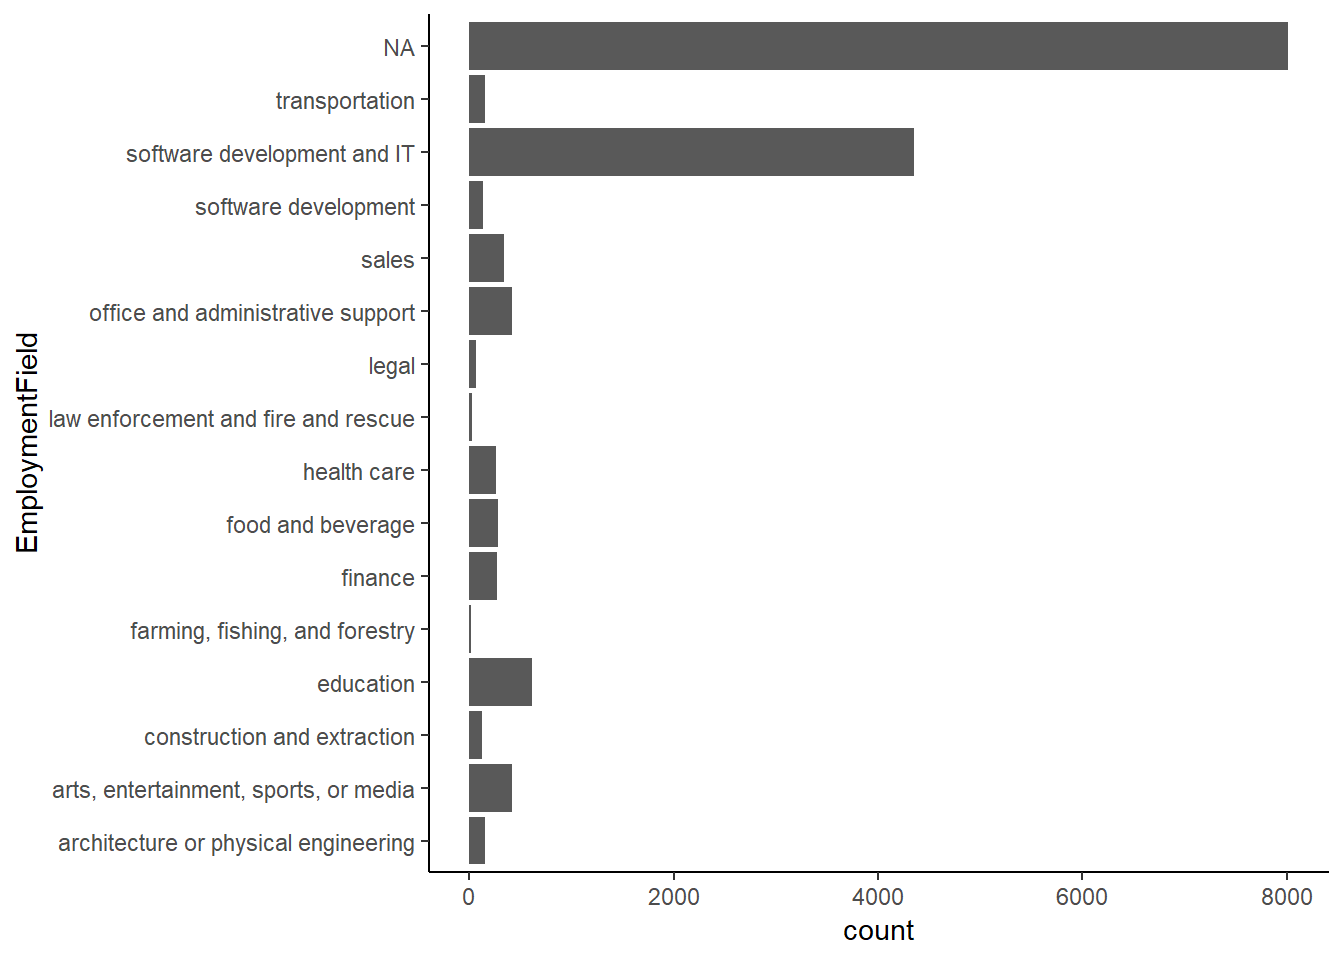
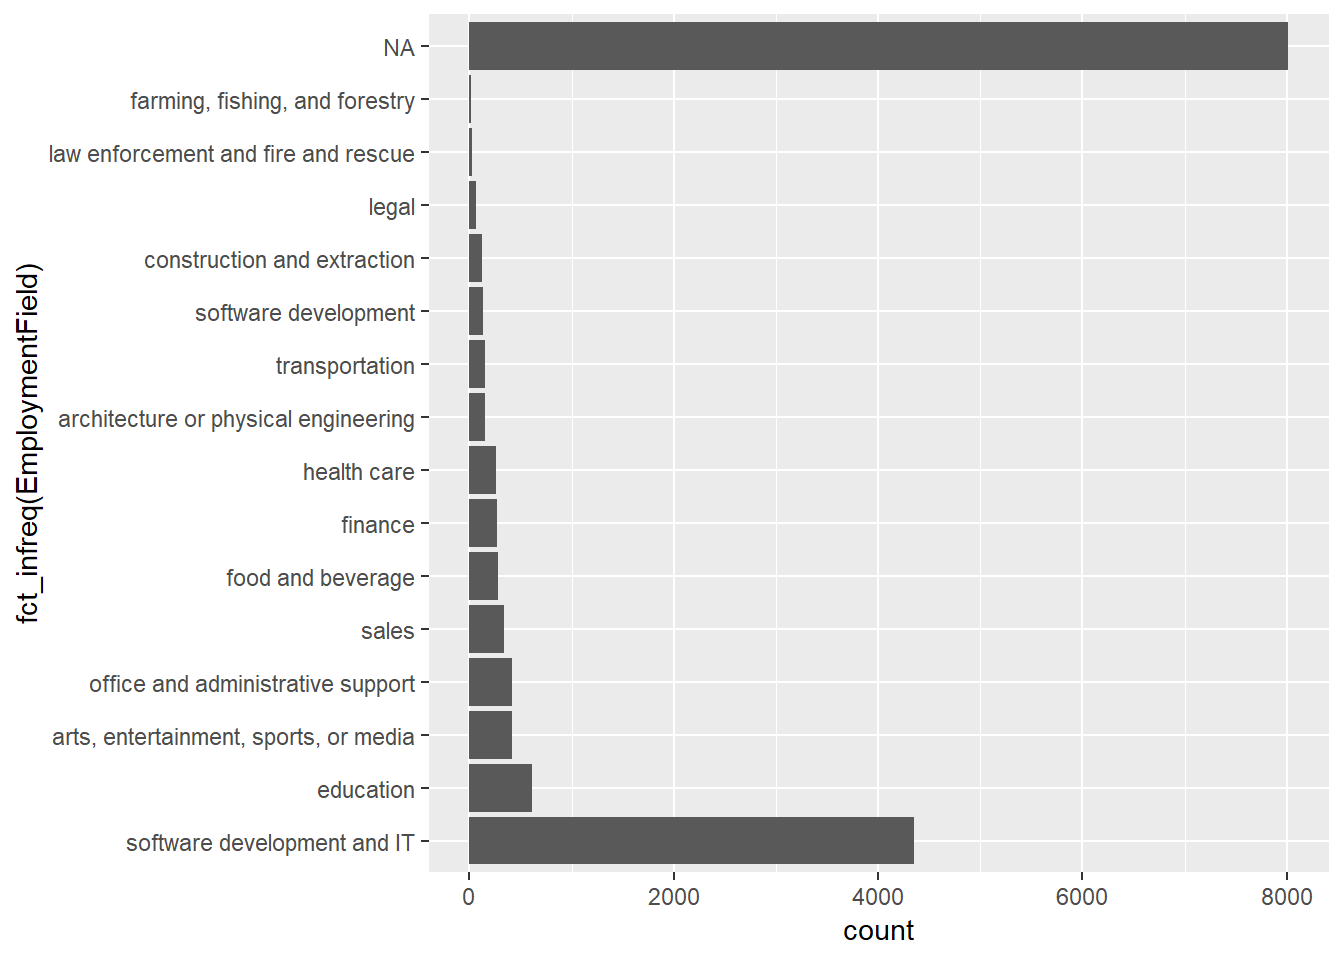
reformatting of tutorial

diff --git a/merl.tech.html b/merl.tech.html
@@ -9,6 +9,7 @@
 <meta name="generator" content="pandoc" />
 
 
+<meta name="author" content="Charles Guedenet" />
 
 
 <title>MERL Tech DC workshop: Up your Data Game with R</title>
@@ -19,6 +20,9 @@
 <script src="site_libs/bootstrap-3.3.5/js/bootstrap.min.js"></script>
 <script src="site_libs/bootstrap-3.3.5/shim/html5shiv.min.js"></script>
 <script src="site_libs/bootstrap-3.3.5/shim/respond.min.js"></script>
+<script src="site_libs/jqueryui-1.11.4/jquery-ui.min.js"></script>
+<link href="site_libs/tocify-1.9.1/jquery.tocify.css" rel="stylesheet" />
+<script src="site_libs/tocify-1.9.1/jquery.tocify.js"></script>
 <script src="site_libs/navigation-1.1/tabsets.js"></script>
 <link href="site_libs/highlightjs-9.12.0/default.css" rel="stylesheet" />
 <script src="site_libs/highlightjs-9.12.0/highlight.js"></script>
@@ -262,6 +266,92 @@ $(document).ready(function () {
 
 
 
+<script>
+$(document).ready(function ()  {
+
+    // move toc-ignore selectors from section div to header
+    $('div.section.toc-ignore')
+        .removeClass('toc-ignore')
+        .children('h1,h2,h3,h4,h5').addClass('toc-ignore');
+
+    // establish options
+    var options = {
+      selectors: "h1,h2",
+      theme: "bootstrap3",
+      context: '.toc-content',
+      hashGenerator: function (text) {
+        return text.replace(/[.\\/?&!#<>]/g, '').replace(/\s/g, '_').toLowerCase();
+      },
+      ignoreSelector: ".toc-ignore",
+      scrollTo: 0
+    };
+    options.showAndHide = true;
+    options.smoothScroll = true;
+
+    // tocify
+    var toc = $("#TOC").tocify(options).data("toc-tocify");
+});
+</script>
+
+<style type="text/css">
+
+#TOC {
+  margin: 25px 0px 20px 0px;
+}
+@media (max-width: 768px) {
+#TOC {
+  position: relative;
+  width: 100%;
+}
+}
+
+
+.toc-content {
+  padding-left: 30px;
+  padding-right: 40px;
+}
+
+div.main-container {
+  max-width: 1200px;
+}
+
+div.tocify {
+  width: 20%;
+  max-width: 260px;
+  max-height: 85%;
+}
+
+@media (min-width: 768px) and (max-width: 991px) {
+  div.tocify {
+    width: 25%;
+  }
+}
+
+@media (max-width: 767px) {
+  div.tocify {
+    width: 100%;
+    max-width: none;
+  }
+}
+
+.tocify ul, .tocify li {
+  line-height: 20px;
+}
+
+.tocify-subheader .tocify-item {
+  font-size: 0.90em;
+  padding-left: 25px;
+  text-indent: 0;
+}
+
+.tocify .list-group-item {
+  border-radius: 0px;
+}
+
+
+</style>
+
+
 
 </head>
 
@@ -269,6 +359,16 @@ $(document).ready(function () {
 
 
 <div class="container-fluid main-container">
+
+
+<!-- setup 3col/9col grid for toc_float and main content  -->
+<div class="row-fluid">
+<div class="col-xs-12 col-sm-4 col-md-3">
+<div id="TOC" class="tocify">
+</div>
+</div>
+
+<div class="toc-content col-xs-12 col-sm-8 col-md-9">
 
 
 
@@ -281,7 +381,7 @@ $(document).ready(function () {
         <span class="icon-bar"></span>
         <span class="icon-bar"></span>
       </button>
-      <a class="navbar-brand" href="index.html">Charles Guedenet Website</a>
+      <a class="navbar-brand" href="index.html">Charles Guedenet</a>
     </div>
     <div id="navbar" class="navbar-collapse collapse">
       <ul class="nav navbar-nav">
@@ -290,6 +390,9 @@ $(document).ready(function () {
 </li>
 <li>
   <a href="projects.html">Projects and tutorials</a>
+</li>
+<li>
+  <a href="MERL.tech.html"></a>
 </li>
       </ul>
       <ul class="nav navbar-nav navbar-right">
@@ -321,40 +424,33 @@ $(document).ready(function () {
 
 
 <h1 class="title toc-ignore">MERL Tech DC workshop: Up your Data Game with R</h1>
+<h4 class="author">Charles Guedenet</h4>
 
 </div>
 
 
+<p>This tutorial was developed for a workshop at MERL Tech DC in 2018 and presented with Jonathan Seiden. You can find the R code and slides on <a href="https://github.com/cguedenet/MERL-Tech-workshop.git">Github</a>.</p>
+<p>The code and examples below are an introduction to the possibilities of using the free and open-source R programming language and software environment for data processing, analysis, and visualization.</p>
+<div id="introduction" class="section level1">
+<h1><span class="header-section-number">1</span> Introduction</h1>
 <p>This is an <a href="http://rmarkdown.rstudio.com">R Markdown</a> Notebook. When you execute code within the notebook, the results appear beneath the code.</p>
 <p>R Studio is an “Integrated Development Environment”, or IDE. This means it is a front-end for R that makes it much easier to work with. R Studio is also free, and available for Windows, Mac, and Linux platforms.</p>
-<pre class="r"><code># This is where you execute R ccommands. R interprets what you write and prints the results
-1 + 1
-
-# A basic concept in programming is called a variable. A variable allows you to store a value (e.g. 5) or an object (e.g. a function) in R for easy access later. 
-## TIP: use &quot;Alt&quot; + &quot;-&quot; instead of &quot;&lt;&quot; + &quot;-&quot;
-
-#creating variables for later use. Use the less sign followed by a dash to create a variable
-
-width &lt;- 5                       # assigns the value 5 to the variable &quot;width&quot;
-length &lt;- 8                      # assigns the value 8 to the variable &quot;width&quot;
-area &lt;- width * length           # multiple the values of both previous variables to create a new variable: &quot;area&quot; 
-
-area  # print the result</code></pre>
+</div>
 <div id="cleaning-your-data" class="section level1">
-<h1>Cleaning your data</h1>
+<h1><span class="header-section-number">2</span> Cleaning your data</h1>
 <p>Analyzing survey data typically starts with cleaning, recoding, and restructuring, or even joining data sets. For example, you may want to know how many missing cases there are or how many people responded to each question. Or you may want to group certain continuous variables like ages or income into ranges. Lastly, you may want to find and deal with outliers.</p>
-<p>Functions like distinct() cab quickly get rid of duplicate rows across all variables or for specific variables (e.g. a person’s ID or email address)</p>
+<p>Functions like distinct() can quickly get rid of duplicate rows across all variables or for specific variables (e.g. a person’s ID or email address)</p>
 <p>Functions like mutate() can help create new variables. For example, creating a new variable for age ranges based on an existing variable for age.</p>
 </div>
 <div id="overview-of-survey-data-and-basic-analysis" class="section level1">
-<h1>Overview of survey data and basic analysis</h1>
+<h1><span class="header-section-number">3</span> Overview of survey data and basic analysis</h1>
 <p>When you’re analyzing survey data, one of the first things you need to do is get an overview of your data. For example, you may want to know basic stats for continuous variables or frequency tables for other types of data.</p>
-<div id="get-summary-stats-for-age-and-agecut-variables" class="section level2">
-<h2>Get summary stats for Age and AgeCut variables</h2>
-<p>Min. 1st Qu. Median Mean 3rd Qu. Max. NA’s 10.00 23.00 27.00 29.18 33.00 86.00 2007 (10,29] (29,34] (34,50] (50,65] (65,100] NA’s 8240 2380 2564 400 27 2009</p>
+<div id="get-summary-stats" class="section level2">
+<h2><span class="header-section-number">3.1</span> Get summary stats</h2>
+<p>Min. 1st Qu. Median Mean 3rd Qu. Max. NA’s 10.00 23.00 27.00 29.18 33.00 86.00 2007</p>
 </div>
-<div id="add-new-stats" class="section level2">
-<h2>add new stats</h2>
+<div id="add-new-stats-to-your-table" class="section level2">
+<h2><span class="header-section-number">3.2</span> Add new stats to your table</h2>
 <table>
 <thead>
 <tr class="header">
@@ -375,7 +471,7 @@ area  # print the result</code></pre>
 </table>
 </div>
 <div id="add-a-grouping-variable" class="section level2">
-<h2>add a grouping variable</h2>
+<h2><span class="header-section-number">3.3</span> Add a grouping variable</h2>
 <table>
 <thead>
 <tr class="header">
@@ -431,17 +527,18 @@ area  # print the result</code></pre>
 </tr>
 </tbody>
 </table>
-</div>
-<div id="instructions" class="section level2">
-<h2>INSTRUCTIONS:</h2>
+<div id="exercise" class="section level3">
+<h3><span class="header-section-number">3.3.1</span> Exercise:</h3>
 <ol style="list-style-type: decimal">
 <li><p>Get summary statistics for another continuous variable, like income, MonthsProgramming, ExpectedEarning, MoneyForLearning, etc. (reference the df object)</p></li>
 <li><p>Add or change the summary stats you want to calculate (Other useful functions: mean, median, sd, IQR, min, max, quantile, first, last, nth, n, n_distinct)</p></li>
 <li><p>Add a new grouping variable</p></li>
 </ol>
 </div>
-<div id="heres-another-way-to-quickly-generate-summary-statistics-for-select-numeric-variables-using-the-psyche-package" class="section level2">
-<h2>Here’s another way to quickly generate summary statistics for select numeric variables using the psyche package</h2>
+</div>
+<div id="quickly-summarize-data" class="section level2">
+<h2><span class="header-section-number">3.4</span> Quickly summarize data</h2>
+<p>Here’s another way to quickly generate summary statistics for select numeric variables using the psyche package</p>
 <table>
 <thead>
 <tr class="header">
@@ -547,11 +644,11 @@ area  # print the result</code></pre>
 </div>
 </div>
 <div id="working-with-categorical-data" class="section level1">
-<h1>Working with Categorical data</h1>
-<div id="summarize-categorical-data-by-creating-frequency-tables-using-sjmisc-package" class="section level2">
-<h2>summarize categorical data by creating frequency tables using sjmisc package</h2>
-<p>Frequency table for the variable: “SchoolDegree”</p>
-<pre class="r"><code># summarize categorical data by creating frequency tables using sjmisc package
+<h1><span class="header-section-number">4</span> Working with Categorical data</h1>
+<div id="summarize-categorical-data" class="section level2">
+<h2><span class="header-section-number">4.1</span> Summarize categorical data</h2>
+<p>Summarize categorical data and create frequency tables using sjmisc package</p>
+<pre class="r"><code># summarize categorical data by creating frequency tables using sjmisc package. Frequency table for the variable: &quot;SchoolDegree&quot;
 df %&gt;% frq(SchoolDegree) %&gt;% kable()</code></pre>
 <table class="kable_wrapper">
 <tbody>
@@ -665,7 +762,7 @@ df %&gt;% frq(SchoolDegree) %&gt;% kable()</code></pre>
 </table>
 </div>
 <div id="create-cross-tabulations-with-two-or-more-variables" class="section level2">
-<h2>create cross-tabulations with two or more variables</h2>
+<h2><span class="header-section-number">4.2</span> Create cross-tabulations with two or more variables</h2>
 <table>
 <thead>
 <tr class="header">
@@ -762,7 +859,7 @@ df %&gt;% frq(SchoolDegree) %&gt;% kable()</code></pre>
 </table>
 </div>
 <div id="create-marginal-tables-using-row-col-or-cell" class="section level2">
-<h2>create marginal tables using “row”, “col”, or “cell”</h2>
+<h2><span class="header-section-number">4.3</span> Create marginal tables using “row”, “col”, or “cell”</h2>
 <table>
 <thead>
 <tr class="header">
@@ -857,9 +954,8 @@ df %&gt;% frq(SchoolDegree) %&gt;% kable()</code></pre>
 </tr>
 </tbody>
 </table>
-</div>
-<div id="instructions-1" class="section level2">
-<h2>INSTRUCTIONS:</h2>
+<div id="exercise-1" class="section level3">
+<h3><span class="header-section-number">4.3.1</span> Exercise:</h3>
 <ol style="list-style-type: decimal">
 <li>Create other cross-tabulations by changing the variables<br />
 </li>
@@ -867,57 +963,87 @@ df %&gt;% frq(SchoolDegree) %&gt;% kable()</code></pre>
 </ol>
 </div>
 </div>
-<div id="creating-charts-in-r-using-ggplot2-package" class="section level1">
-<h1>Creating charts in R using ggplot2 package</h1>
-<div id="create-a-simple-column-chart" class="section level2">
-<h2>create a simple column chart</h2>
-<p><img src="merl.tech_files/figure-html/unnamed-chunk-5-1.png" width="672" /></p>
 </div>
-<div id="flip-it-so-that-it-becomes-a-bar-chart-and-the-labels-are-easier-to-read.-plus-add-a-theme" class="section level2">
-<h2>flip it so that it becomes a bar chart and the labels are easier to read. Plus, add a theme</h2>
+<div id="create-charts-using-ggplot2" class="section level1">
+<h1><span class="header-section-number">5</span> Create charts using ggplot2</h1>
+<div id="create-a-simple-column-chart" class="section level2">
+<h2><span class="header-section-number">5.1</span> create a simple column chart</h2>
+<p><img src="merl.tech_files/figure-html/unnamed-chunk-5-1.png" width="672" /></p>
+<div id="flip-it-and-order-bars" class="section level4">
+<h4><span class="header-section-number">5.1.0.1</span> flip it and order bars</h4>
+<pre class="r"><code>df %&gt;% ggplot(aes(fct_infreq(EmploymentField))) +
+  geom_bar() +
+  coord_flip()</code></pre>
 <p><img src="merl.tech_files/figure-html/unnamed-chunk-6-1.png" width="672" /></p>
 </div>
-<div id="get-rid-of-na" class="section level2">
-<h2>Get rid of NA</h2>
+<div id="get-rid-of-na" class="section level4">
+<h4><span class="header-section-number">5.1.0.2</span> Get rid of NA</h4>
+<pre class="r"><code>df %&gt;% filter(EmploymentField!=&quot;&quot;) %&gt;%
+  ggplot(aes(fct_infreq(EmploymentField))) +
+  geom_bar() +
+  coord_flip()</code></pre>
 <p><img src="merl.tech_files/figure-html/unnamed-chunk-7-1.png" width="672" /></p>
 </div>
+</div>
 <div id="create-a-simple-histogram" class="section level2">
-<h2>Create a simple histogram</h2>
+<h2><span class="header-section-number">5.2</span> Create a simple histogram</h2>
+<pre class="r"><code>df %&gt;% ggplot(aes(x=Age)) + 
+  geom_histogram()</code></pre>
 <p><img src="merl.tech_files/figure-html/unnamed-chunk-8-1.png" width="672" /></p>
-</div>
-<div id="make-it-look-pretty" class="section level2">
-<h2>make it look pretty</h2>
+<div id="adding-titles-and-themes-to-charts" class="section level4">
+<h4><span class="header-section-number">5.2.0.1</span> Adding titles and themes to charts</h4>
+<pre class="r"><code>df %&gt;% ggplot(aes(x=Age)) +
+  geom_histogram(color = &quot;white&quot;) +
+  theme_minimal() +
+  labs(title = &quot;My Title&quot;, subtitle = &quot;My subtitle&quot;) </code></pre>
 <p><img src="merl.tech_files/figure-html/unnamed-chunk-9-1.png" width="672" /></p>
+<p>Try another theme<br />
+<img src="merl.tech_files/figure-html/unnamed-chunk-10-1.png" width="672" /></p>
 </div>
-<div id="try-another-theme" class="section level2">
-<h2>try another theme</h2>
-<p><img src="merl.tech_files/figure-html/unnamed-chunk-10-1.png" width="672" /></p>
-</div>
-<div id="instructions-2" class="section level2">
-<h2>INSTRUCTIONS</h2>
+<div id="exercise-2" class="section level3">
+<h3><span class="header-section-number">5.2.1</span> Exercise:</h3>
 <p>1 Change the x variable with another numeric variable<br />
 2 Change the theme &amp; titles<br />
 3 Change the number of bins</p>
 </div>
-<div id="create-a-density-plot-instead-of-a-histogram" class="section level2">
-<h2>Create a density plot instead of a histogram</h2>
+</div>
+<div id="create-a-density-plot" class="section level2">
+<h2><span class="header-section-number">5.3</span> Create a density plot</h2>
+<pre class="r"><code># Compare only males and females comparison
+df %&gt;% filter(Gender == &quot;female&quot; | Gender == &quot;male&quot;) %&gt;% 
+  ggplot(aes(x=Age, fill = Gender)) + 
+  geom_density(alpha = .6) + 
+  theme_fivethirtyeight()</code></pre>
 <p><img src="merl.tech_files/figure-html/density%20plot-1.png" width="672" /></p>
 </div>
 <div id="other-examples-of-charts-with-the-ggplot-package" class="section level2">
-<h2>Other examples of charts with the ggplot package</h2>
-</div>
-</div>
-<div id="relationship-between-employment-status-and-job-preference" class="section level1">
-<h1>Relationship between employment status and job preference</h1>
+<h2><span class="header-section-number">5.4</span> Other examples of charts with the ggplot package</h2>
+<p>Relationship between employment status and job preference</p>
+<pre class="r"><code>df %&gt;% flat_table(EmploymentStatus, JobPref) %&gt;% data.frame() %&gt;%
+  ggplot(aes(EmploymentStatus, JobPref)) +
+  geom_tile(aes(fill = Freq), colour = &quot;white&quot;) +
+  scale_fill_continuous() +
+  coord_fixed(ratio = 1) +
+  theme(axis.text.x=element_text(angle=90,hjust=1,vjust=0.5))</code></pre>
 <p><img src="merl.tech_files/figure-html/examples-1.png" width="672" /></p>
-<div id="stacked-bar-chart" class="section level2">
-<h2>Stacked bar chart</h2>
-<p>Comparing gender breakdown across ages <img src="merl.tech_files/figure-html/unnamed-chunk-11-1.png" width="672" /></p>
+<div id="stacked-bar-chart" class="section level3">
+<h3><span class="header-section-number">5.4.1</span> Stacked bar chart</h3>
+<p>Comparing gender breakdown across ages</p>
+<pre class="r"><code>df %&gt;% select(Age, Gender) %&gt;%
+  group_by(Age, Gender) %&gt;%
+  summarise(count=n()) %&gt;%
+  ggplot(aes(Age,count,fill=Gender)) +
+  geom_bar(stat=&#39;identity&#39;, position=&#39;fill&#39;, color=&#39;white&#39;) + 
+  xlim(c(10,70))</code></pre>
+<p><img src="merl.tech_files/figure-html/unnamed-chunk-11-1.png" width="672" /></p>
 </div>
 </div>
+</div>
 
 
 
+</div>
+</div>
 
 </div>
 
